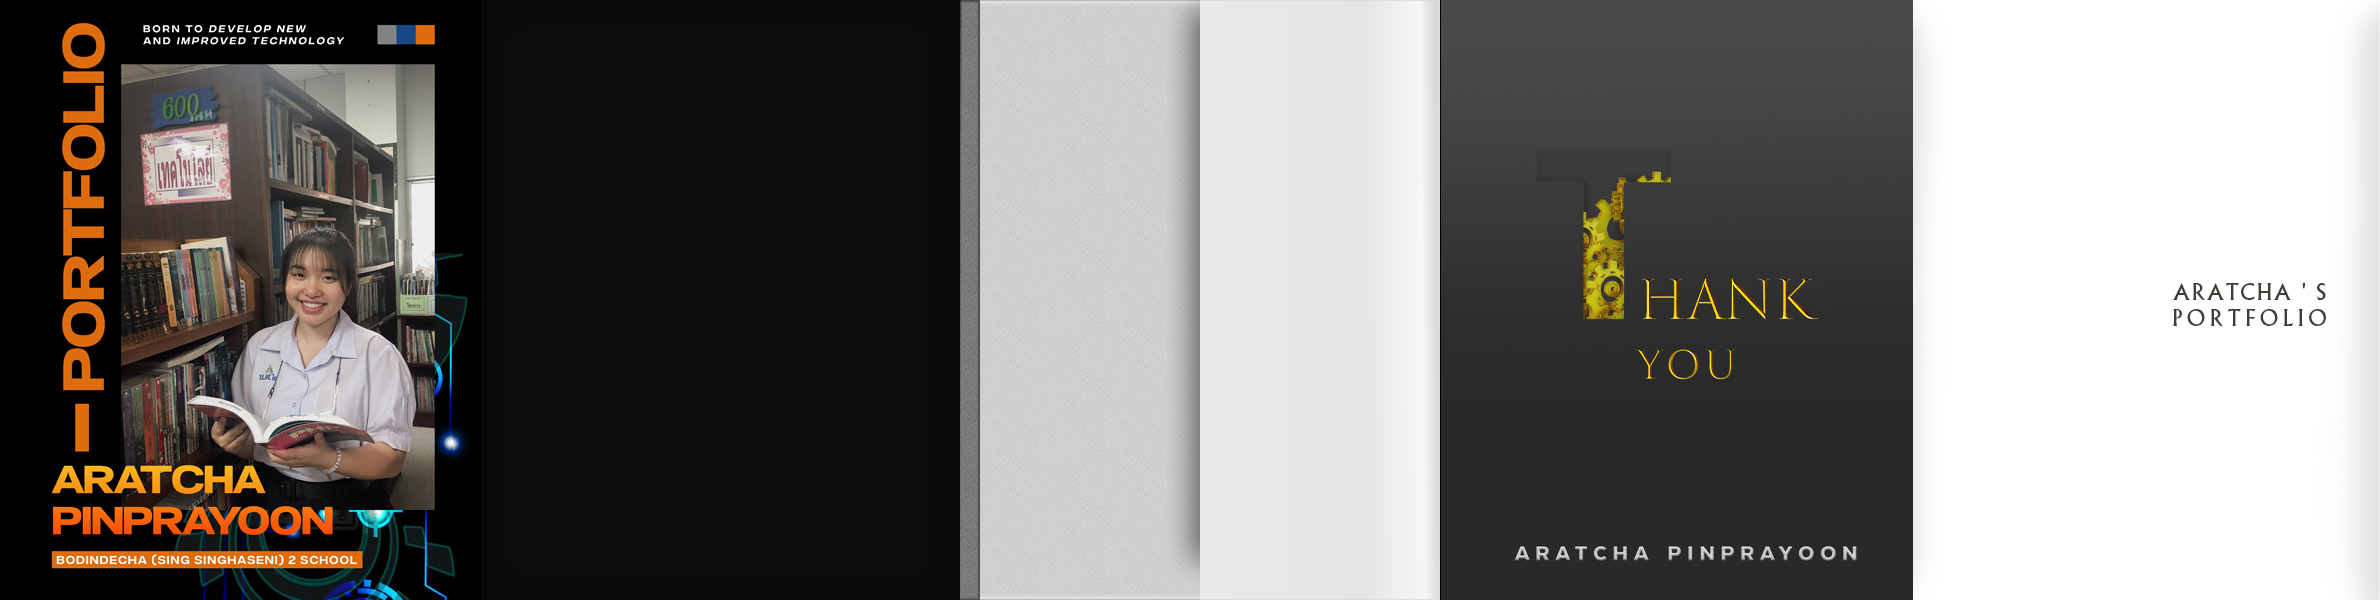
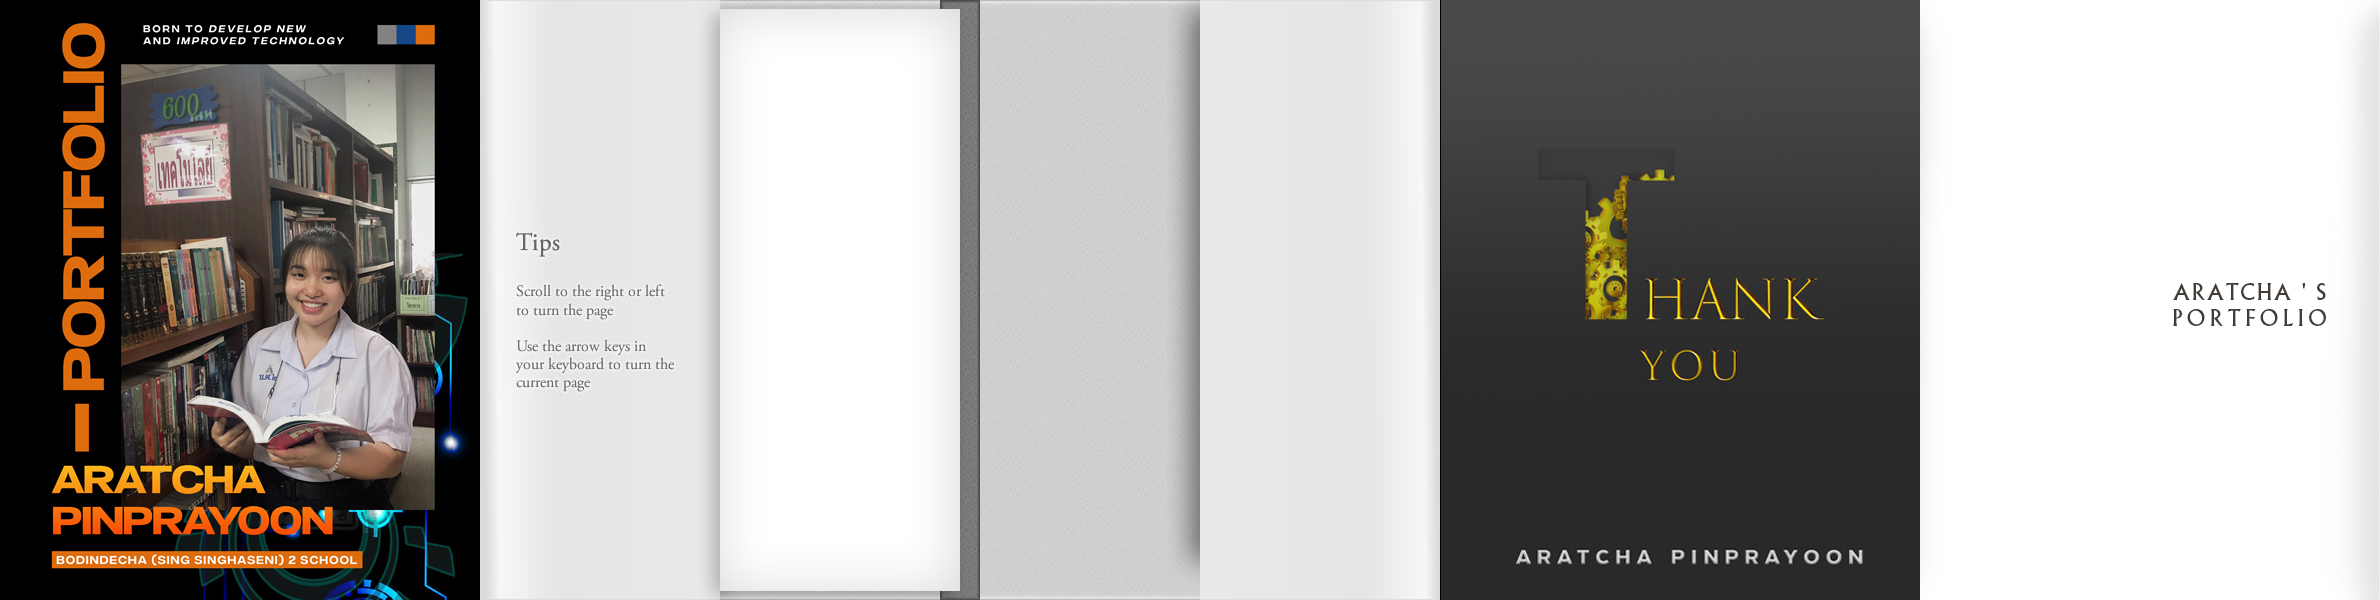
add pic

diff --git a/book.html b/book.html
@@ -52,8 +52,8 @@
 			<div depth="5" class="hard front-side"> <div class="depth"></div> </div>
 			<div class="own-size"></div>
 			<div class="own-size even"></div>
-			<div class="hard fixed back-side p15"> <div class="depth"></div> </div>
-			<div class="hard p16"></div>
+			<div class="hard fixed back-side p17"> <div class="depth"></div> </div>
+			<div class="hard p18"></div>
 		</div>
 	</div>
 	<div id="slider-bar" class="turnjs-slider">
@@ -186,12 +186,12 @@ function loadApp() {
 	flipbook.bind(($.isTouch) ? 'touchend' : 'click', zoomHandle);
 
 	flipbook.turn({
-		elevation: 14,
+		elevation: 16,
 		acceleration: !isChrome(),
 		autoCenter: true,
 		gradients: true,
 		duration: 1000,
-		pages: 14,
+		pages: 16,
 		when: {
 			turning: function(e, page, view) {
 				
@@ -230,9 +230,9 @@ function loadApp() {
 					$('.sj-book .p2').removeClass('fixed');
 
 				if (page<book.turn('pages'))
-					$('.sj-book .p15').addClass('fixed');
+					$('.sj-book .p17').addClass('fixed');
 				else
-					$('.sj-book .p15').removeClass('fixed');
+					$('.sj-book .p17').removeClass('fixed');
 
 				Hash.go('page/'+page).update();
 					

diff --git a/book/css/book.css b/book/css/book.css
@@ -104,8 +104,8 @@ body, ul, table, form{
 .sj-book .p1,
 .sj-book .p2,
 .sj-book .p3, 
-.sj-book .p15, 
-.sj-book .p16{
+.sj-book .p17, 
+.sj-book .p18{
 	background-image:url(../pics/book-covers.jpg) !important;
 }
 
@@ -153,6 +153,13 @@ body, ul, table, form{
 	background-image:url(../pics/cer3.jpg) !important;
 }
 
+.sj-book .p15 {
+	background-image:url(../pics/cer4.jpg) !important;
+}
+
+.sj-book .p16 {
+	background-image:url(../pics/back.jpg) !important;
+}
 
 
 
@@ -204,11 +211,11 @@ body, ul, table, form{
 	background-position:-1920px 0 !important;
 }
 
-.sj-book .p15{
+.sj-book .p17{
 	background-position:-960px 0 !important;
 }
 
-.sj-book .p16{
+.sj-book .p18{
 	background-position:-1440px 0 !important;
 }
 
